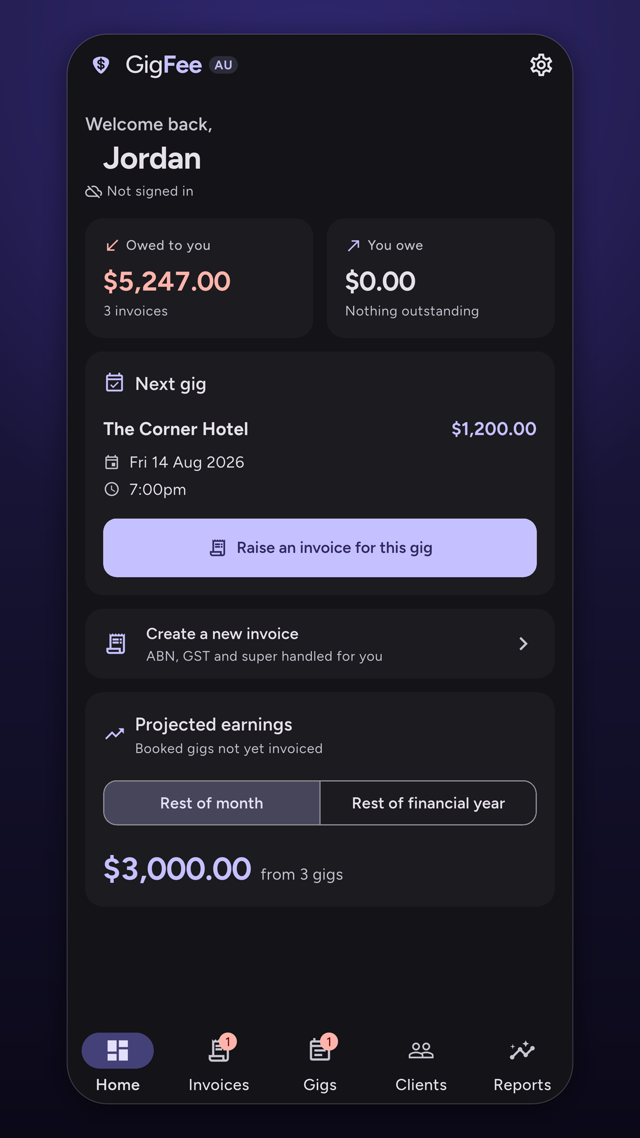
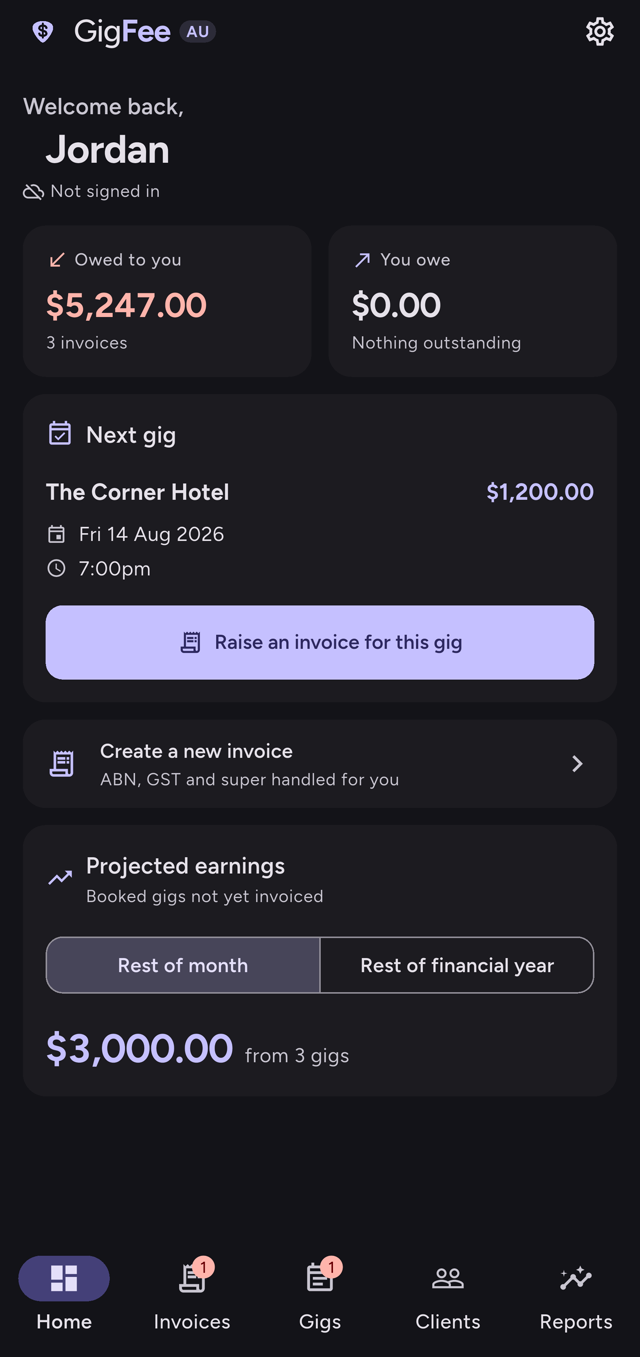
Take the fake backdrop off the screenshots, and the template off the page
The screenshots were the Play Store versions, which carry a purple
gradient and a drawn device frame baked into the image. On a purple
hero that read as a box inside a box. They are regenerated from the
raw captures instead: the app's own UI, cropped past the emulator
status bar and the gesture pill, with the rounding and the edge done
in CSS where they belong.

The rest is removing things that made the page look generated. The
three-column grid of stock line icons is gone, replaced by the same
three facts written out, unequal lengths and all, because forcing them
level meant padding two of them with filler. The uppercase letterspaced
eyebrow over the headline is gone and the fact it carried now sits in
the sentence. The midway call to action asked a rhetorical question and
now states the offer.

diff --git a/index.html b/index.html
@@ -29,13 +29,12 @@
   }
   .hero h1 { color: var(--hero-ink); }
   .hero .lead { font-size: 1.16rem; max-width: 34rem; color: var(--hero-body); }
-  .eyebrow {
-    display: inline-block; font-size: 0.79rem; font-weight: 600;
-    letter-spacing: 0.09em; text-transform: uppercase;
-    color: var(--amber); margin-bottom: 1rem;
-  }
   .hero-shot { justify-self: center; max-width: 300px; width: 100%; }
-  .hero-shot img { border-radius: 26px; box-shadow: 0 28px 60px rgba(0, 0, 0, 0.45); }
+  .hero-shot img {
+    border-radius: 26px;
+    border: 1px solid rgba(255, 255, 255, 0.14);
+    box-shadow: 0 30px 70px rgba(0, 0, 0, 0.5);
+  }
   @media (max-width: 52rem) {
     .hero .shell { grid-template-columns: 1fr; gap: 2.5rem; padding-top: 3rem; padding-bottom: 3rem; }
     .hero-shot { max-width: 260px; }
@@ -80,15 +79,16 @@
   }
 
   .panel { background: var(--panel); border-top: 1px solid var(--line); border-bottom: 1px solid var(--line); }
-  .privacy-grid { display: grid; grid-template-columns: repeat(3, 1fr); gap: 2.25rem; margin-top: 2.5rem; }
-  .privacy-grid h3 { font-size: 1.05rem; margin-bottom: 0.35rem; }
-  .privacy-grid p { font-size: 0.98rem; color: var(--muted); margin-bottom: 0; }
-  .privacy-grid svg {
-    width: 26px; height: 26px; stroke: var(--violet); fill: none;
-    stroke-width: 1.7; stroke-linecap: round; stroke-linejoin: round;
-    margin-bottom: 0.7rem;
+  .plainly { margin: 0; max-width: 44rem; }
+  .plainly dt {
+    font-weight: 600; color: var(--ink); font-size: 1.05rem;
+    margin-top: 1.75rem;
   }
-  @media (max-width: 44rem) { .privacy-grid { grid-template-columns: 1fr; gap: 1.75rem; } }
+  .plainly dt:first-of-type { margin-top: 0; }
+  .plainly dd {
+    margin: 0.3rem 0 0; color: var(--muted); max-width: 40rem;
+  }
+
   .panel-note { margin-top: 2.5rem; margin-bottom: 0; }
 
   /* Google Play badge.
@@ -156,12 +156,12 @@
 <div class="hero">
   <div class="shell">
     <div>
-      <span class="eyebrow">Built for Australian musicians</span>
       <h1>The gig is done. The invoice takes a minute.</h1>
       <p class="lead">
-        GigFee raises a proper tax invoice from your phone, with the ABN checked,
-        the GST worked out and superannuation shown the way a performer's invoice
-        should show it. You can send it before you have packed the car.
+        Built for Australian musicians. GigFee raises a proper tax invoice
+        from your phone, with the ABN checked, the GST worked out and
+        superannuation shown the way a performer's invoice should show it. You
+        can send it before you have packed the car.
       </p>
       <div class="actions">
         <a class="play-badge" href="https://play.google.com/store/apps/details?id=com.stagefee.stagefee">
@@ -173,7 +173,7 @@
     <div class="hero-shot">
       <picture>
         <source srcset="assets/screen-dashboard.webp" type="image/webp">
-        <img src="assets/screen-dashboard.png" width="640" height="1138"
+        <img src="assets/screen-dashboard.png" width="640" height="1357"
              alt="The GigFee home screen showing money owed, the next gig and projected earnings.">
       </picture>
     </div>
@@ -207,7 +207,7 @@
       <div class="feature-shot">
         <picture>
           <source srcset="assets/screen-reports.webp" type="image/webp">
-          <img src="assets/screen-reports.png" width="640" height="1138"
+          <img src="assets/screen-reports.png" width="640" height="1357"
                alt="The reports screen showing outstanding, overdue, paid and invoiced totals for the financial year.">
         </picture>
       </div>
@@ -230,7 +230,7 @@
       <div class="feature-shot">
         <picture>
           <source srcset="assets/screen-split.webp" type="image/webp">
-          <img src="assets/screen-split.png" width="640" height="1138"
+          <img src="assets/screen-split.png" width="640" height="1357"
                alt="The fee split screen dividing a $1,200 fee four ways between band members.">
         </picture>
       </div>
@@ -254,7 +254,7 @@
       <div class="feature-shot">
         <picture>
           <source srcset="assets/screen-gigs.webp" type="image/webp">
-          <img src="assets/screen-gigs.png" width="640" height="1138"
+          <img src="assets/screen-gigs.png" width="640" height="1357"
                alt="The gig diary showing bookings ahead and gigs played but not yet invoiced.">
         </picture>
       </div>
@@ -264,7 +264,7 @@
 
 <div class="shell">
   <div class="midway-cta">
-    <p>Ready to stop writing invoices by hand?</p>
+    <p>Free to start. No account, no card.</p>
     <a class="play-badge" href="https://play.google.com/store/apps/details?id=com.stagefee.stagefee">
       <img src="assets/google-play-badge.png" alt="Get it on Google Play" width="646" height="250">
     </a>
@@ -281,32 +281,27 @@
       </p>
     </div>
 
-    <div class="privacy-grid">
-      <div>
-        <svg viewBox="0 0 24 24" aria-hidden="true"><path d="M12 3l7 3v6c0 4-3 7-7 9-4-2-7-5-7-9V6z"/></svg>
-        <h3>No account required</h3>
-        <p>
-          Install it and start invoicing. There is no sign-up, and you can use
-          GigFee for years without ever telling us who you are.
-        </p>
-      </div>
-      <div>
-        <svg viewBox="0 0 24 24" aria-hidden="true"><path d="M3 12h4l3 7 4-14 3 7h4"/></svg>
-        <h3>No tracking</h3>
-        <p>
-          No analytics, no advertising and no third party trackers. Nothing in
-          here watches how you use it.
-        </p>
-      </div>
-      <div>
-        <svg viewBox="0 0 24 24" aria-hidden="true"><path d="M6 10V8a6 6 0 0 1 12 0v2"/><rect x="4" y="10" width="16" height="10" rx="2"/></svg>
-        <h3>Backup is your choice</h3>
-        <p>
-          Cloud backup stays off until you turn it on. When you do, the copy is
-          stored in Australia and readable only by the account you signed in with.
-        </p>
-      </div>
-    </div>
+    <dl class="plainly">
+      <dt>No account</dt>
+      <dd>
+        Install it and start invoicing. There is no sign-up, and you can use
+        GigFee for years without ever telling us who you are.
+      </dd>
+
+      <dt>No tracking</dt>
+      <dd>
+        No analytics, no advertising, no third party trackers. Nothing in here
+        watches how you use it.
+      </dd>
+
+      <dt>Backup is yours to switch on</dt>
+      <dd>
+        Cloud backup stays off until you turn it on. When you do, the copy is
+        stored in Australia and readable only by the account you signed in
+        with. Your phone also keeps its own copy through Android's backup,
+        which is covered in the policy.
+      </dd>
+    </dl>
 
     <p class="panel-note">
       The full detail is in the <a href="privacy-policy.html">privacy policy</a>,
